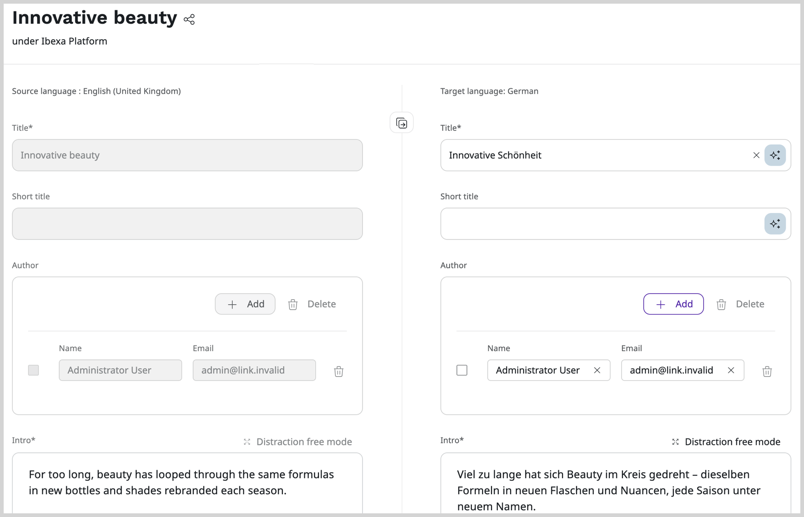
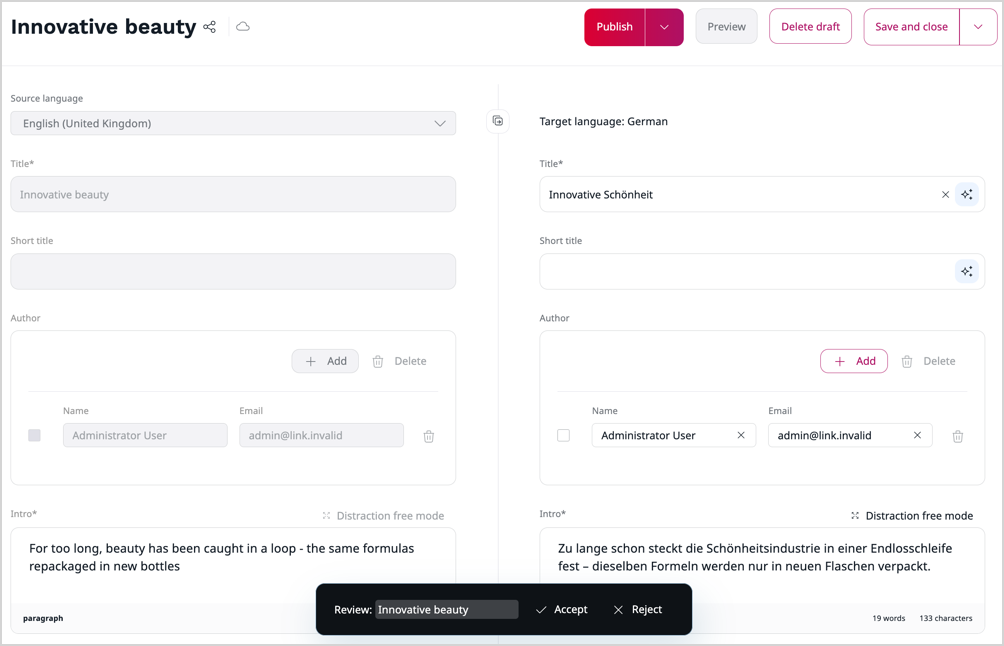
Implement reviewer comments, improve installation procedure

diff --git a/code_samples/translations_management/src/TranslationsManagement/ContentProxyTranslateSubscriber.php b/code_samples/translations_management/src/TranslationsManagement/ContentProxyTranslateSubscriber.php
@@ -1,4 +1,6 @@
-<?php declare(strict_types=1);
+<?php
+
+declare(strict_types=1);
 
 namespace App\TranslationsManagement\EventSubscriber;
 

diff --git a/docs/multisite/translations_management/configure_translations_management.md b/docs/multisite/translations_management/configure_translations_management.md
@@ -6,58 +6,70 @@ month_change: true
 
 # Configure translations management
 
-`ibexa/translations-management` extends [[= product_name =]]'s built-in language management tools that editors use for content translation.
-It introduces a plugin that handles the translation provider system by connecting to REST APIs and AI services, a [side-by-side editing interface](#side-by-side-translation-view) where editors can compare source and target languages and provide content item and product translations in a single view, and multiple extension points that you can use to [customize different areas of the translation workflow](extend_translations_management.md).
-
-The package is standalone and does not require the `ibexa/automated-translation` add-on package to run.
+`ibexa/translations-management` extends [[= product_name =]]'s built-in language management tools that editors use for content item and product translation.
+It introduces a plugin that handles automatic translations through the translation provider system by connecting to REST APIs and AI services, a [side-by-side editing interface](#side-by-side-translation-view) where editors can compare source and target , provide content item and product translations in a single view, and reject or approve translations, and multiple extension points that you can use to [customize different areas of the translation workflow](extend_translations_management.md).
 
 !!! note "Automatic translation limitations"
 
-    Content types that contain the `ibexa_form` field are excluded from automatic translation.
-    The ones with the `ibexa_landing_page` field can still be automatically translated through the standard translation flow and the CLI command, and the following elements are translated:
-
-    - The page's title and description
-    - Names of page blocks
-    - Plain text on page blocks
-    - Richtext fields on page blocks
-
+    Content types that contain the `ibexa_form` or `ibexa_landing_page` fields do not support the side-by-side translation view and open in the single-language editor instead.
+    When a content type that uses `ibexa_landing_page` is automatically translated, only the page's title and description are translated.
+    When a content type that uses `ibexa_form` is automatically translated, only the forms's title is translated.
+    
     Also, [product attributes](products.md#product-attributes) are not translatable.
 
 ## Install package
 
-The Translations management LTS Update is optional.
-To enable it, run the following command:
+To install the Translations management [LTS Update](editions.md#lts-updates), run the following command:
 
 ```bash
 composer require ibexa/translations-management
 ```
 
-After installation, run the [[= product_name_base =]] data migrations to complete the setup:
+If you're installing Translations management LTS Update as part of the installation process of a fresh [[= product_name =]] instance, this step copies the migration files into the project's migrations directory, creates the database tables required for the review workflow, and adds the default action configurations in the database.
+Otherwise follow the steps below.
+
+### Existing installations
+
+To add the Translations management LTS Update to an existing [[= product_name =]] instance, after installation, you must create database tabes and action configurations yourself.
+
+#### Modify database schema
+
+Add the tables needed by the bundle:
+
+=== "MySQL"
+
+    ```sql
+    [[= include_file('code_samples/translations_management/install/schema.mysql.sql', 0, None, '    ') =]]
+    ```
+
+=== "PostgreSQL"
+
+    ```sql
+    [[= include_file('code_samples/translations_management/install/schema.postgresql.sql', 0, None, '    ') =]]
+    ```
+
+The script creates the required data structures, but doesn't add any data to the database.
+
+#### Add action configurations
+
+Import and run the AI Action Configuration migrations to complete the setup:
 
 ```bash
-php bin/console ibexa:migrations:import --from-bundle=IbexaTranslationsManagementBundle
+php bin/console ibexa:migrations:import vendor/ibexa/translations-management/src/bundle/Resources/migrations/2026_05_06_15_00_auto_translate_openai_action_configuration.yaml
+php bin/console ibexa:migrations:import vendor/ibexa/translations-management/src/bundle/Resources/migrations/2026_05_11_10_00_auto_translate_gemini_action_configuration.yaml
+php bin/console ibexa:migrations:import vendor/ibexa/translations-management/src/bundle/Resources/migrations/2026_05_12_08_30_auto_translate_anthropic_action_configuration.yaml
 php bin/console ibexa:migrations:migrate
 ```
-
-This copies the migration files into the project's migrations directory, creates the database tables required for the review workflow, and adds the default action configurations in the database.
 
 ## Configure translation providers
 
 Translation providers are the services that perform the actual text translation.
-The Translations management package comes with two types of translation providers:
+    If you fail to configure them, the automatic translation feature is disabled in the editor's UI, and a message is displayed that prompts the user to contact the administrator
+
+The Translations management package comes with two types of translation services:
 
 - REST API-based providers call a translation service such as Google Translate or DeepL directly by using an API key.
 - AI-based providers send translation requests through the [AI Actions](configure_ai_actions.md) framework, relying on the same model selection and policy controls as other AI features in [[= product_name =]].
-
-Out of the box, Translations management can support the following translation providers:
-
-| Provider | Type | Configuration |
-|---|---|---|
-| Google Translate | REST API | API key |
-| DeepL | REST API | API key |
-| OpenAI | AI Actions | Action Configuration identifier |
-| Anthropic (Claude) | AI Actions | Action Configuration identifier |
-| Google Gemini | AI Actions | Action Configuration identifier |
 
 !!! note "Prerequisites for the default translation providers"
 
@@ -67,9 +79,19 @@ Out of the box, Translations management can support the following translation pr
 
     - For the AI-based translation providers, [install and configure](configure_ai_actions.md) the `ibexa/connector-ai` package and their corresponding connectors.
 
+Out of the box, Translations management can support the following translation providers:
+
+| Provider | Type |
+|---|---|---|
+| Google Translate | REST API |
+| DeepL | REST API |
+| OpenAI | AI Actions |
+| Anthropic (Claude) | AI Actions |
+| Google Gemini | AI Actions |
+
 **Built-in AI providers**
 
-When you install the Translations management package, the installation process automatically creates AI [Action Configurations](extend_ai_actions.md#action-configurations) for OpenAI (`auto_translate_openai`), Google Gemini (`auto_translate_gemini`), and Anthropic Claude (`auto_translate_anthropic`).
+If you fulfill the above prerequisites, and you install the Translations management package, the installation process automatically creates AI [Action Configurations](extend_ai_actions.md#action-configurations) for OpenAI (`auto_translate_openai`), Google Gemini (`auto_translate_gemini`), and Anthropic Claude (`auto_translate_anthropic`).
 
 You can use them directly in provider configuration:
 
@@ -109,19 +131,11 @@ The `apiKey` values must reference API key values that you added to the `.env` f
 The `actionConfigurationIdentifier` values must reference existing Action Configurations.
 If a value is missing or empty, the provider doesn't appear in the UI as a selectable option.
 
-!!! caution "AI policies required"
-
-    AI-based providers require that AI policies are assigned to user roles.
-    If an editor can't see AI providers in the translation provider dropdown, check if the appropriate AI policies are granted in their role definition.
-
-If you fail to configure the providers, the Translations management feature disables itself in the editor's UI.
-The **Use automatic translation** checkbox is disabled, and a message is displayed that prompts the user to contact the administrator
-
-### Advanced translation provider options
+#### Advanced translation provider options
 
 In addition to their required authentication keys, all providers support two optional ones:
 
-- `supportedLanguageCodes` - overrides the default list of language codes this provider accepts
+- `supportedLanguageCodes` - overrides the default list of language codes that this provider accepts
 - `languageCodesMap` - maps language codes used by [[= product_name =]], for example, `eng-GB`, to the provider-specific codes the API expects
 
 ``` yaml
@@ -162,27 +176,7 @@ The editor can override the pre-selection.
 The list of languages available when creating a language pair is determined by what each provider supports.
 You can only select the languages that are present in a provider's [supported list](#advanced-translation-provider-options) for that provider's pairs.
 
-You can manage language pairs in [[= product_name_base =]]'s back office.
-
-### Manage language pairs in UI
-
-To manage language pairs in the back office, go to **Admin** -> **Languages** -> **Language pairs** tab.
-Here you can create, edit and delete language pairs.
-
-To add a language pair, click **+ Add language pair**.
-Then, pick a source language and one or more target languages from their respective drop-down lists.
-Finally, from the **Translation service** list, pick a translation provider and click **Save and close**
-
-![Creating a language pair](translations_management_language_pairs.png "Creating a language pair")
-
-This adds as many language pairs as you picked target languages.
-
-!!! note
-
-    The **Add language pair** action is disabled if no translation providers are [configured](#configure-translation-providers).
-
-    If a language pair already exists and is associated with a translation provider, you can't create another language pair with a different provider.
-    Edit the existing language pair instead. 
+You [manage language pairs in the back office]([[= user_doc =]]/content_management/translate_content/#manage-translation-services-and-language-pairs).
 
 ## User settings
 
@@ -267,6 +261,8 @@ It's a single server-side operation handled by `SideBySideFieldCopyService::copy
 
 When an user opens the translation modal and selects a target language which already has a draft translation, a warning appears in the modal.
 The warning is shown or hidden dynamically by `add.translation.modal.warning.js` when the user changes the target language selection.
+
+For a description of the side-by-side view and its functions from the user's perspective, see [Translate content](([[= user_doc =]]/content_management/translate_content/#side-by-side-translation-view).
 
 ## Translate content items with CLI
 

diff --git a/docs/multisite/translations_management/extend_translations_management.md b/docs/multisite/translations_management/extend_translations_management.md
@@ -6,7 +6,7 @@ month_change: true
 
 # Extend translations management
 
-By extending [Translations management](translations_management_guide.md), you can build custom translation workflows and adapt the package's behavior to your specific requirements.
+By extending [Translations management](translations_management_guide.md), you can adapt the package's behavior to your specific requirements.
 The package is designed to be extended in multiple ways.
 You can create custom [translation providers](configure_translations_management.md#configure-translation-providers), field type transformers, exclusion rules, and UI components.
 In all cases, you follow the same pattern: implement an interface first, then register the service with a service tag.
@@ -42,7 +42,8 @@ These methods allow the package to determine whether the provider is available b
 [[= include_code('code_samples/translations_management/src/TranslationsManagement/MyCustomAiProvider.php') =]]
 ```
 
-Register the provider with the `ibexa.translations_management.auto_translate.provider` tag, with `ai_generic` as the validation profile:
+Register the provider with the `ibexa.translations_management.auto_translate.provider` tag, with `ai_generic` as the validation profile.
+The `ai_generic` validation profile is used by default for AI providers, but you can [implement your own](#validation-profiles).
 
 ``` yaml
 [[= include_file('code_samples/translations_management/config/services.yaml', 0, 1) =]] [[= include_code('code_samples/translations_management/config/services.yaml', 32, 36) =]]
@@ -178,34 +179,6 @@ Register a component with the `ibexa.twig.component` tag:
     The `admin-ui-content-translation-modal-footer` group receives a `location` variable that may be `null` when the modal is rendered outside a location context.
     Always check for `null` before you access location properties in your component template.
 
-## Extend modal
-
-If injecting custom UI elements is not sufficient, you can extend the modal itself.
-To add a field to the **Add translation** modal, for example, to let the editor choose a custom workflow or pass extra parameters along with the translation request, extend [`TranslationAddType`](https://github.com/ibexa/admin-ui/blob/main/src/lib/Form/Type/Content/Translation/TranslationAddType.php) with a [Symfony's Form Type extension](https://symfony.com/doc/current/form/create_form_type_extension.html).
-It's the same mechanism the translations management package uses internally to inject its provider selector into the modal.
-
-Create a class that extends [`AbstractTypeExtension`](https://symfony.com/doc/current/reference/forms/types/form.html) and declare the extended type:
-
-``` php
-[[= include_code('code_samples/translations_management/src/TranslationsManagement/MyTranslationAddExtension.php') =]]
-```
-
-Register it as a service:
-
-``` yaml
-[[= include_code('code_samples/translations_management/config/services.yaml', 1, 1) =]]
-[[= include_code('code_samples/translations_management/config/services.yaml', 11, 13) =]]
-```
-
-The extra field is then available in the submitted form data, which the standard `admin-ui` controller includes in the translation request data.
-Use this approach when you need to read extra input from the editor, not to redirect or replace the response.
-
-!!! caution "Internal `TranslationAddType`"
-
-    `TranslationAddType` is marked `@internal` in `ibexa/admin-ui`.
-    While it functions as an extension point in practice, its name and signature may change.
-    It may even be removed entirely without a deprecation notice.
-
 ## Intercept translation flow
 
 The `BeforeTranslateEvent` and `TranslateEvent` [events](translations_management_events.md#translation-events) operate at the field-value level and cannot redirect the HTTP flow.
@@ -214,7 +187,7 @@ To intercept the "Add translation" action at the HTTP level, for example, to tri
 The `translations-management` package listens to this event at priority `100`.
 Subscribe at a higher priority to act before the package does:
 
-``` php hl_lines="35 36"
+``` php hl_lines="22 38 39"
 [[= include_code('code_samples/translations_management/src/TranslationsManagement/ContentProxyTranslateSubscriber.php') =]]
 ```
 

diff --git a/docs/api/event_reference/translations_management_events.md b/docs/api/event_reference/translations_management_events.md
@@ -17,7 +17,7 @@ Both events are read-only, you can't use them to override the translation result
 | Event | Dispatched by | Dispatched when | Properties |
 |---|---|---|----|
 | [`BeforeTranslateEvent`](/api/php_api/php_api_reference/classes/Ibexa-Contracts-TranslationsManagement-AutoTranslate-Event-BeforeTranslateEvent.html) | `EventDispatchingProviderTranslator` | Before a translation request is sent to the provider | `TranslationProviderInterface $provider`</br>`string $text`</br>`string $sourceLanguage`</br>`string $targetLanguage` |
-| [`TranslateEvent`](/api/php_api/php_api_reference/classes/Ibexa-Contracts-TranslationsManagement-AutoTranslate-Event-TranslateEvent.html) | `TranslationService` | After a translation response is received | `string $result`</br>`TranslationProviderInterface $provider`</br>`string $text`</br>`string $sourceLanguage`</br>`string $targetLanguage` |
+| [`TranslateEvent`](/api/php_api/php_api_reference/classes/Ibexa-Contracts-TranslationsManagement-AutoTranslate-Event-TranslateEvent.html) | `EventDispatchingProviderTranslator` | After a translation response is received | `string $result`</br>`TranslationProviderInterface $provider`</br>`string $text`</br>`string $sourceLanguage`</br>`string $targetLanguage` |
 
 ## Side-by-side creation events
 
